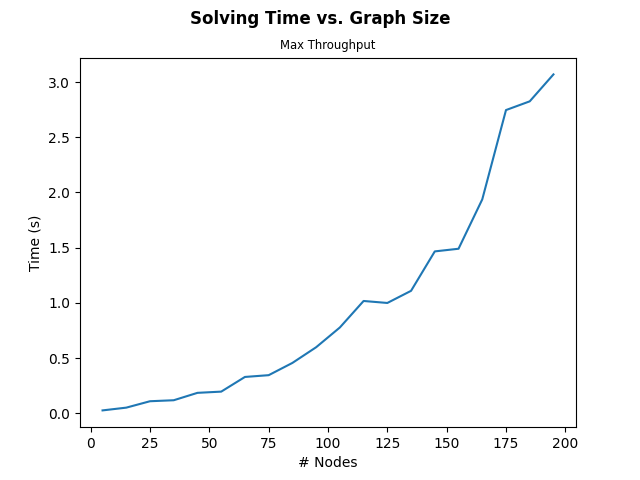
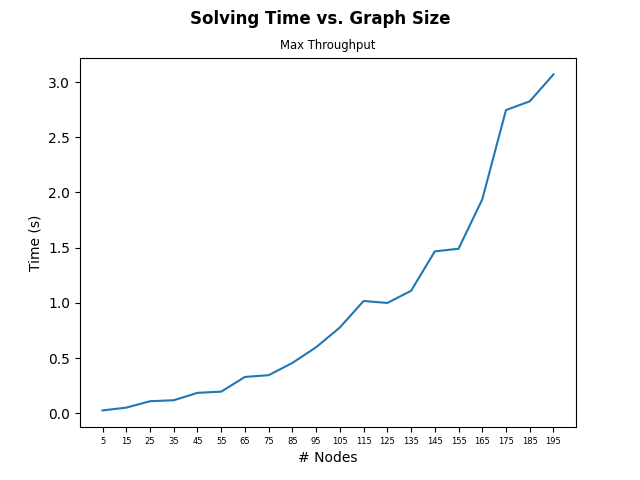
updated extra credit graph ticks

diff --git a/main.py b/main.py
@@ -222,8 +222,7 @@ def draw_flow_allocations(graph, flow):
 def main(args):
     if len(args) > 1 and args[1] == 'extra':
         times = []
-        for i in range(1, 9):
-            size = i * 50
+        for size in range(5, 201, 10):
             graph = generate_graph(size)
             demands = generate_demands(size)
             model, flow = create_mcf_model(graph, demands)
